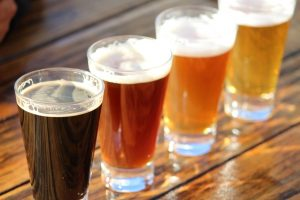
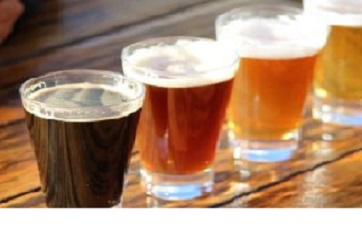
Making detail section responsive

diff --git a/index.html b/index.html
@@ -11,20 +11,20 @@
   </head>
   <body>|
 
-      <header class="header" class="back-header" style="position: relative;margin-top:4vw;   ">
-        <picture class="back-header">
-          <source
-            srcset="
-            /src/img/beer5.jpg 320w,
-            /src/img/beer9.jpg 540w,
-            /src/img/beer2.2.jpg 768w,
-            "
-            media="(min-width:768px)"
+      <header id ="back-header" class="back-header header" style="position: relative;margin-top:3vw;   ">
+        <picture class="back-header" styles="width:100%;heigth:100%">
+          <source srcset="
+                      /src/img/beer2.2-tbl.jpg 480w,
+                      /src/img/beer2.2-tbl.jpg 768w
+                        "
+                         media="(min-width:768px)"
           >
-          <source srcset="/src/img/beer12.jpg">
+          <source srcset="/src/img/beer5-mob.jpg" media="(min-width:480px)" >
+          <source srcset="/src/img/beer5.jpg" media="(min-width:320px)" >
           <img src="/src/img/beer10.jpg" alt="BeerFlix" />  
                       
         </picture>
+        <h2>Pick a Beer to see the Details</h2>
       </header>
     <!-- navbar -->
     <navbar id="navbar" class="app-navbar no-search filter">
@@ -50,24 +50,15 @@
     <main>
     </main>
     <!-- main-section end -->
-<!-- comment-form -->
+
 <section id="detailSection" class="detail-section">
 
   <div id="detail" class="detail-content"></div>
-  <!-- <div class="quotes-list">
-    <h2>Quotes</h2>
-    <div id="quoteList"> -->
+
     </div>
   </div>
-  <!-- <form id="quote-form" class="quote-form" novalidate>
-    <div class="quote-input">
-      <label for="quote">Quote of this show</label>
-      <input required id="quote" placeholder="Add your quote" class="input primary" type="text">
-    </div>
-    <button type="submit" class="button primary">Add quote</button>
-  </form> -->
+
 </section>
-<!-- comment-form end -->
 
     <!--loader -->
     <div id="loader" class="loader-container hide">

diff --git a/src/css/header.css b/src/css/header.css
@@ -11,9 +11,9 @@
   display: none;
 }
 .header{
-  height: 30vw;
+  height: 25vw;
 
-  /* opacity:0.65; */
+  opacity:0.65;
   /* background-image: url(../img/beer1.jpg); */
   /* background-repeat: no-repeat;
   background-position: top center;
@@ -22,10 +22,20 @@
 }
 
 .back-header {
-  height: 30vw;
-  max-height:200px; 
+  /* height: 30vw;
+  max-height:200px;  */
+}
+picture{
+  max-height: auto;
+  max-width: 100%;
 }
 
+.header > h2 {
+  font-size:2.5em;
+  font-weight: 700;
+  text-align: center;
+  color: darkgoldenrod;
+}
 .header > h1 {
   position: absolute;
   bottom: 60vh;
@@ -46,3 +56,35 @@
   top: 60vh;
   left: 60vw;
 }
+
+@media all and (max-width: 768px) {
+  .header > h2{
+
+    font-size: 1.5em;
+  }
+ picture{
+    /* margin-top:12vw; */
+    margin-top: 10vw;
+  }
+  }
+
+@media all and (max-width: 480px) {
+  picture{
+    /* margin-top:12vw; */
+    margin-top: 10vw;
+  }
+  .header > h2{
+
+    visibility: hidden;
+  }
+  #back-header{
+    /* margin-top:22vw; */
+  }
+  }
+
+  @media all and (max-width: 320px) {
+    .header > h2{
+      visibility: hidden;
+    
+    }
+    }

diff --git a/src/css/card2.css b/src/css/card2.css
@@ -4,10 +4,11 @@
   display: flex;
   flex-direction: column;
   background: #FFFFFF;
-  padding: 0;
   border: none;
   border-radius: 5px;
   box-shadow: 0 1px 3px 0 #d4d4d5, 0 0 0 1px #d4d4d5;
+  /* margin-left: 10px; */
+  row-gap: 5px;
 }
 .card i, .secondary i, .card button, .secondary button {
   cursor: pointer;
@@ -128,11 +129,11 @@
     visibility: hidden;
     opacity: 0;
   }
-  .secondary .card-content-text h2,
+.secondary .card-content-text h2,
 .secondary .card-header h2 {
-  font-size: 1.2rem;
-  color:black;
-  font-weight: 700;
+    font-size: 1.2rem;
+    color:black;
+    font-weight: 700;
   }
   .secondary:hover .card-header {
     z-index: 1;
@@ -142,7 +143,7 @@
   }
   .secondary:hover .card-content .card-content-image {
     /* display: none; */
-    opacity: 0.30;
+   opacity: 0.30;
   }
   .secondary:hover .card-content p {
     max-height: 200px;
@@ -157,7 +158,8 @@
 .secondary:hover .card-header,
 .secondary:hover .card-content,
 .secondary:hover i {
-  background-color: white;
-  color:black;
+    background-color: white;
+    color:black;
+   
   }
 }

diff --git a/src/css/detail.css b/src/css/detail.css
@@ -45,7 +45,42 @@ text-align: justify;
   padding-top: 10px;
   width: 100%;
 }
+@media (min-width:1px) {
+  .image-container{
+    /* align-content: center !important; */
+  }
+  .image-container img{
+   margin-left: 35vw !important;
+    width:25vw !important;
+    height:40vw !important;
+
+    /* margin-left: -50vw; */
+    
+  }
+  .detail-section{
+    
+    grid-template-columns: 1fr;
+    
+  }
+}
+
+@media (min-width:768px) {
+
+  .detail-section{
+    
+    grid-template-columns: 1fr 1fr;
+    
+  }
+  .image-container img{
+    margin-left: 10% !important;
+
+ 
+     /* margin-left: -50vw; */
+     
+   }
+}
 @media (min-width: 992px) {
+
   .detail-section header {
     display: flex;
     flex-direction: column;
@@ -120,3 +155,5 @@ text-align: justify;
   line-height: 1.4;
   margin: 10px 0;
 }
+
+

diff --git a/src/js/detail.js b/src/js/detail.js
@@ -80,8 +80,8 @@ const renderDetail = async id => {
             
             if(quotesInput.validity.valid){
                const response= await createQuote(id, quotesInput.value);
-               console.log(response);
-               console.log('ok: ' +response.success);
+              //  console.log(response);
+              //  console.log('ok: ' +response.success);
                let today = new Date().toISOString() //.slice(0, 10);
 
 

diff --git a/src/js/beers.js b/src/js/beers.js
@@ -81,7 +81,4 @@ const renderBeersDOM = async (text,date) => {
   }
 };
 
-
-
-
 export { renderBeersDOM };
